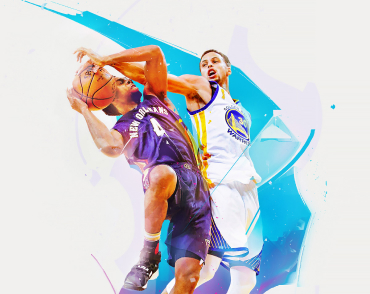
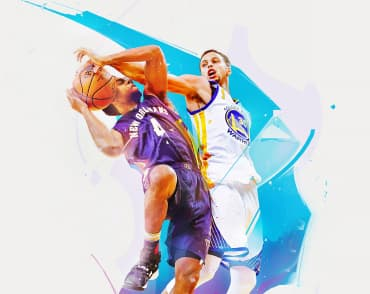
додає футер з правильним вирівнюванням

diff --git a/portfolio.html b/portfolio.html
@@ -11,34 +11,44 @@
     <title>Web Studio</title>
 </head>
 <body>
-    <header class="page-haeder">
-        <div class="container menu-list">
-            <!--Головна навігація-->
-            <nav class="menu-list box">
-                <a href="" class="logo header list"><span class="blue">Web</span> <span class="dark">Studio</span>
-                </a>
-                <ul class="site-nav list menu-list">
-                    <li class="menu-items">
-                        <a href="./" class="link">Студия</a>
-                    </li>
-                    <li class="menu-items">
-                        <a href="./portfolio.html" class="link current">Портфолио</a>
-                    </li>
-                    <li class="menu-items">
-                        <a href="" class="link">Контакты</a>
-                    </li>
-                </ul>
-            </nav>
-            <ul class="site-adress list menu-list">
-                <li class="adress-items mail">
-                    <a href="mailto:info@devstudio.com" class="link">info@devstudio.com</a>
+<header class="page-haeder">
+    <div class="container flexbox">
+        <!--Головна навігація-->
+        <nav class="menu-list box">
+            <a href="./" class="logo header list"><span class="blue">Web</span> <span class="dark">Studio</span>
+            </a>
+            <ul class="site-nav list menu-list">
+                <li class="menu-items">
+                    <a href="./" class="link">Студия</a>
                 </li>
-                <li class="adress-items tel">
-                    <a href="tel:+380961111111" class="link"> +38 096 111 11 11</a>
+                <li class="menu-items">
+                    <a href="./portfolio.html" class="link current">Портфолио</a>
+                </li>
+                <li class="menu-items">
+                    <a href="" class="link">Контакты</a>
                 </li>
             </ul>
-        </div>
-    </header>
+        </nav>
+        <ul class="site-adress list">
+            <li class="adress-items">
+                <a href="mailto:info@devstudio.com" class="link adress-items-link">
+                    <svg class="mail-info" width="16" height="11">
+                        <use href="./images/sprite.svg#icon-envelope"></use>
+                    </svg>
+                    info@devstudio.com
+                </a>
+            </li>
+            <li class="adress-items">
+                <a href="tel:+380961111111" class="link adress-items-link">
+                    <svg class="mail-info" width="10" height="15">
+                        <use href="./images/sprite.svg#icon-smartphone"></use>
+                    </svg>
+                    +38 096 111 11 11
+                </a>
+            </li>
+        </ul>
+    </div>
+</header>
     <!--Головна секція-->
     <main>
         <section>
@@ -160,9 +170,13 @@
     <footer>
         <div class="container footer-container">
             <div class="footer-address">
-                <a href="" class="logo"> <span class="blue">Web</span><span class="white">Studio</span> </a>
+                <a href="" class="logo">
+                    <span class="blue">Web</span><span class="white">Studio</span>
+                </a>
                 <address>
-                    <span class="address"> г. Киев, пр-т Леси Украинки, 26 <br /> </span>
+                    <span class="address">
+                        г. Киев, пр-т Леси Украинки, 26 <br />
+                    </span>
                     <a href="mailto:info@devstudio.com" class="email">info@devstudio.com</a>
                     <a href="tel:+380961111111" class="telephone"> +38 096 111 11 11</a>
                 </address>
@@ -170,23 +184,48 @@
             <div class="join-social">
                 <b class="join">присоединяйтесь</b>
                 <ul class="list sociallist">
-                    <li class="link-social"><a href="" aria-label="Ссылка на Twitter"> <img src="./images/instagram.svg"
-                                alt=""></a></li>
-                    <li class="link-social"><a href="" aria-label="Ссылка на Instagram"><img src="./images/twitter.svg"
-                                alt=""></a></li>
-                    <li class="link-social"><a href="" aria-label="Ссылка на Facebook"><img src="./images/facebook.svg"
-                                alt=""></a></li>
-                    <li class="link-social"><a href="" aria-label="Ссылка на Linkedin"><img src="./images/linkedin.svg"
-                                alt=""></a></li>
+                    <li class="link-social footer">
+                        <a href="#" class="team-link">
+                            <svg class="icon-social">
+                                <use href="./images/sprite.svg#icon-instagram" width="20"></use>
+                            </svg>
+                        </a>
+                    </li>
+                    <li class="link-social footer">
+                        <a href="#" class="team-link">
+                            <svg class="icon-social">
+                                <use href="./images/sprite.svg#icon-twitter" width="20"></use>
+                            </svg>
+                        </a>
+                    </li>
+                    <li class="link-social footer">
+                        <a href="#" class="team-link">
+                            <svg class="icon-social">
+                                <use href="./images/sprite.svg#icon-facebook" width="20"></use>
+                            </svg>
+                        </a>
+                    </li>
+                    <li class="link-social footer">
+                        <a href="#" class="team-link">
+                            <svg class="icon-social">
+                                <use href="./images/sprite.svg#icon-linkedin" width="20"></use>
+                            </svg>
+                        </a>
+                    </li>
                 </ul>
             </div>
             <div class="join-us">
                 <b class="join">Подпишитесь на рассылку</b>
                 <div class="mail-box">
-                    <div> E-mail </div>
-                    <a href="" class="button btn-join">Подписаться<img src="./images/send.svg" alt="" class="send"> </a>
+                    <div>E-mail</div>
+                    <a href="" class="button btn-join">Подписаться
+                        <svg class="send">
+                            <use href="./images/sprite.svg#icon-send"></use>
+                        </svg>
+                    </a>
                 </div>
             </div>
+        </div>
     </footer>
     <!--  -->
 </body>

diff --git a/css/styles.css b/css/styles.css
@@ -41,6 +41,10 @@ html {
   align-items: center;
 }
 
+.page-haeder {
+  border-bottom: 1px solid #ececec;
+}
+
 .menu-list {
   display: inline-flex;
   align-items: center;
@@ -102,14 +106,20 @@ html {
   padding-bottom: 200px;
   max-width: 1600px;
   height: 600px;
-  border: 1px solid #ececec;
+  margin-right: auto;
+  margin-left: auto;
+  background: #c4c4c4;
 
-  background-image: url("../images/hero.jpg");
+  background-image: linear-gradient(
+      to right,
+      rgba(47, 48, 58, 0.8),
+      rgba(47, 48, 58, 0.8)
+    ),
+    url("../images/hero.jpg");
 }
 
 .hero-title {
   margin-bottom: 30px;
-  text-align: center;
 
   font-weight: 900;
   color: white;
@@ -207,7 +217,7 @@ html {
   padding-top: 94px;
   padding-bottom: 94px;
 
-  background-color: #f5f4fa;
+  background: #f5f4fa;
 }
 
 .business-card {
@@ -411,6 +421,15 @@ footer {
   background-color: #2f303a;
 }
 
+.footer-container > div:not(:last-child) {
+  width: calc((50% - 45px) / 2);
+  margin-right: 30px;
+}
+
+.footer-container > div:last-child {
+  width: calc(50% - 15px);
+}
+
 .footer-container {
   display: flex;
   align-items: baseline;
@@ -433,6 +452,15 @@ footer {
   font-weight: 400;
 }
 
+.list.sociallist {
+  width: 206px;
+}
+
+.link-social.footer {
+  background: rgba(255, 255, 255, 0.1);
+  border-radius: 50%;
+}
+
 .email,
 .telephone {
   margin-bottom: 9px;
@@ -447,10 +475,10 @@ footer {
   margin-bottom: 0;
 }
 
-.join-social {
+/* .join-social {
   margin-left: 69px;
   margin-right: 94px;
-}
+} */
 
 .sociallist li {
   align-items: center;

diff --git a/index.html b/index.html
@@ -420,7 +420,7 @@
         <div class="join-social">
           <b class="join">присоединяйтесь</b>
           <ul class="list sociallist">
-            <li class="link-social">
+            <li class="link-social footer">
               <a href="#" class="team-link">
                 <svg class="icon-social">
                   <use
@@ -430,14 +430,14 @@
                 </svg>
               </a>
             </li>
-            <li class="link-social">
+            <li class="link-social footer">
               <a href="#" class="team-link">
                 <svg class="icon-social">
                   <use href="./images/sprite.svg#icon-twitter" width="20"></use>
                 </svg>
               </a>
             </li>
-            <li class="link-social">
+            <li class="link-social footer">
               <a href="#" class="team-link">
                 <svg class="icon-social">
                   <use
@@ -447,7 +447,7 @@
                 </svg>
               </a>
             </li>
-            <li class="link-social">
+            <li class="link-social footer">
               <a href="#" class="team-link">
                 <svg class="icon-social">
                   <use
